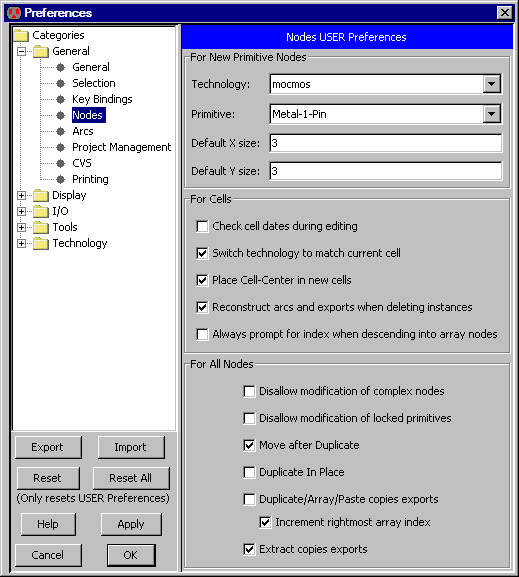
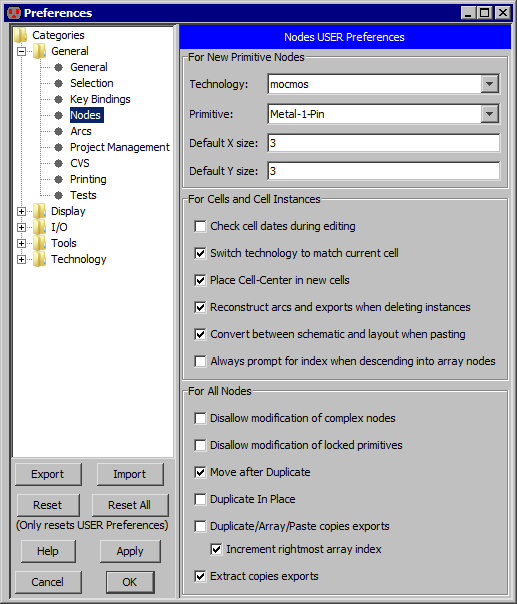
Improvements to user's manual
git-svn-id: https://svn.java.net/svn/electric~svn/trunk@11446 b64ed6c1-75a8-e629-b1da-d0dae74a743a

Changed region(s): [[0.0, 0.0, 1.0, 1.0]]

diff --git a/srcj/com/sun/electric/tool/user/help/helphtml/chap06-02.html b/srcj/com/sun/electric/tool/user/help/helphtml/chap06-02.html
@@ -33,6 +33,9 @@ These reconstructed arcs appear to be the same as before, but they now connect t
 instance ports used to be.
 In addition, exports that were on deleted cell instances are moved to pins in the same location.
 When this box is not checked, arcs and exports connected to deleted instances are also deleted.</LI>
+<LI>"Convert between schematic and layout when pasting" requests that if you copy a schematic cell instance
+(from a schematic) and then paste it into a layout, it will convert it to the equivalent layout cell instance.
+This presumes that the schematic icon has a layout equivalent in the same cell group.</LI>
 <LI>"Always prompt for index when descending into array nodes"
 controls whether nodes with array specifications should be precisely tracked when descending the hierarchy
 (see <A HREF="chap03-05.html#chap03-05">Section 3-5</A> for more).</LI>

diff --git a/srcj/com/sun/electric/tool/user/help/helphtml/chap09-02-01.html b/srcj/com/sun/electric/tool/user/help/helphtml/chap09-02-01.html
@@ -53,8 +53,10 @@ These are the errors that is finds:
   <LI>Arcs:
     <UL>
       <LI>Unnamed arcs that "dangle": one end is unconnected and unexported (does not apply to busses).</LI>
+      <LI>Arcs that end on another arc without connecting to them.</LI>
       <LI>Bus arcs whose width is inconsistent with its two nodes.</LI>
       <LI>Bus pins that "float": do not connect to bus arcs and are not exported.</LI>
+      <LI>Bus taps that connect to a wire which is not part of the bus.</LI>
       <LI>Bus pins that connect to more than 1 wire.</LI>
       <LI>Network names that differ only by their case (i.e. networks "A" and "a" are actually different networks).
     </UL>

diff --git a/srcj/com/sun/electric/tool/user/help/helphtml/chap02-02-01.html b/srcj/com/sun/electric/tool/user/help/helphtml/chap02-02-01.html
@@ -5,6 +5,7 @@
 Node creation is done by selecting a node from the component menu in the side bar (on the left).
 Nodes in the component menu are outlined in blue.
 After clicking on one of these nodes, click in the edit window to place the node.
+If you hold the Control key, the node location will snap to one of the axes.
 <P>
 The location of the cursor is aligned to the nearest grid unit.
 This adjustment can be controlled with the
